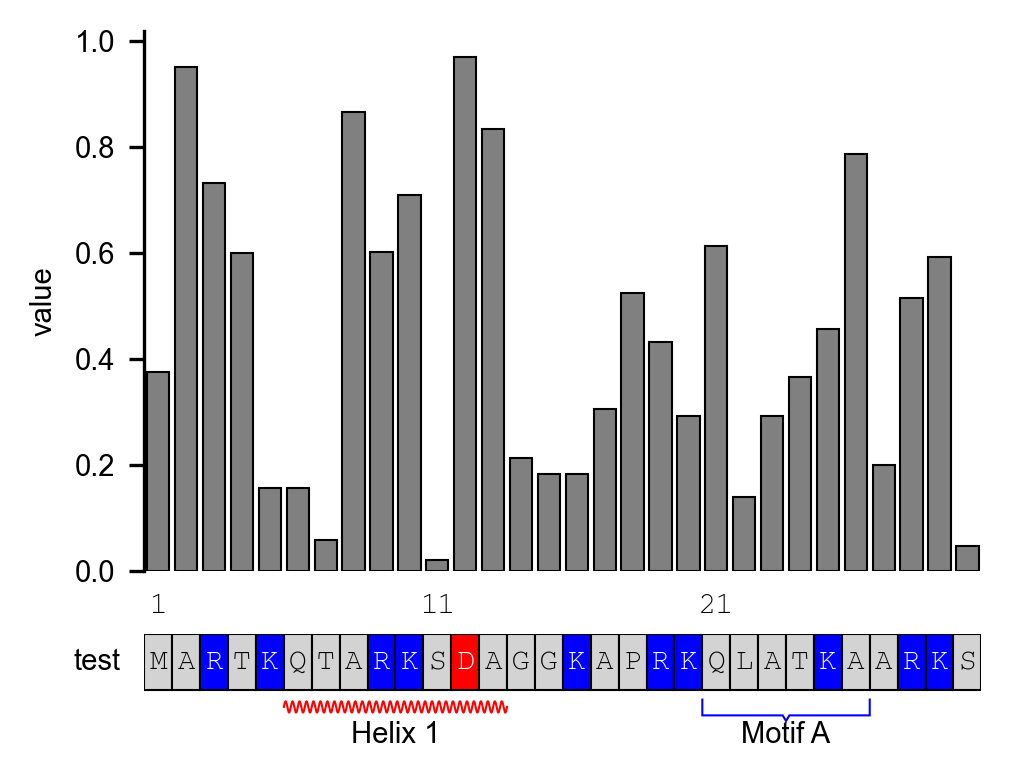
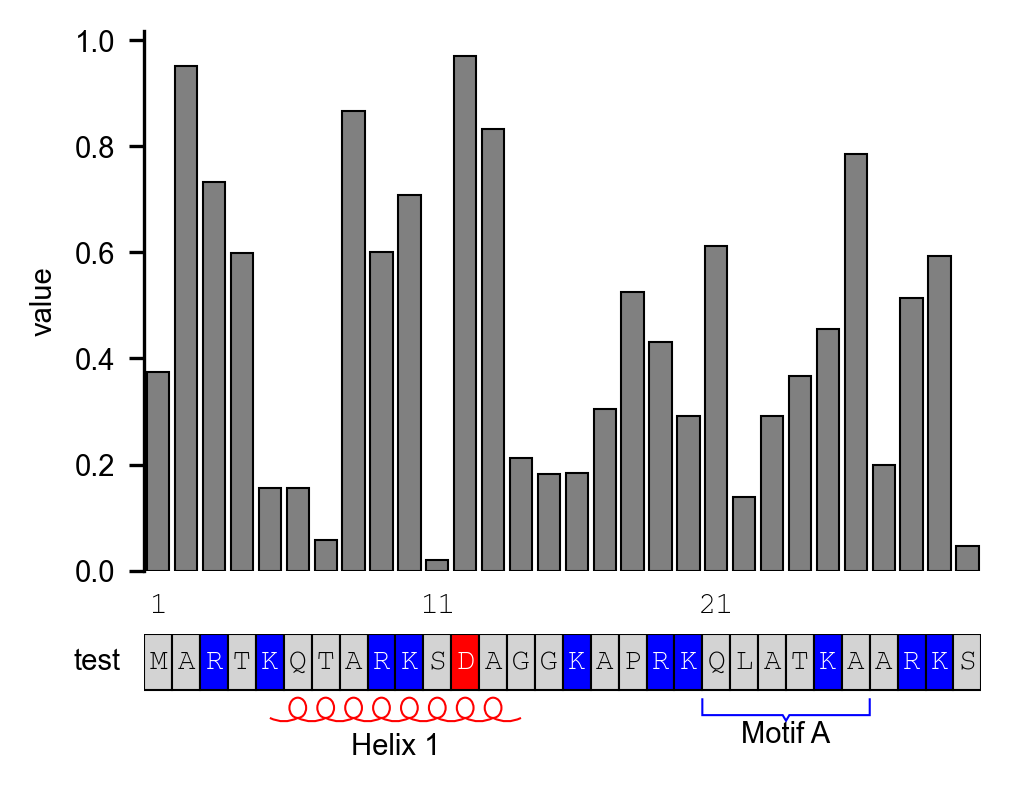
update

diff --git a/scripts/plot_structure.py b/scripts/plot_structure.py
@@ -182,16 +182,66 @@ def add_annotations(ax_seq, annotations, per_amino_acid_width):
             ax_seq.add_patch(patch)
 
         elif style == 'helix':
-            num_turns = width * 4 
-            x_values = np.linspace(start_pos, start_pos + width_scaled, int(width * 100))
-            y_offset = -0.3 - y_offset_more
-            amplitude = 0.1 
-            y_values = amplitude * np.sin(2 * np.pi * num_turns * (x_values - start_pos) / width_scaled) + y_offset
-            ax_seq.plot(x_values, y_values, color=style_color, linewidth=0.5)
+            n_res = max(int(width), 1)
+
+            x_start = start_pos
+            x_step = width_scaled / n_res
+            hx_step = x_step / 2.0
+
+            helix_height = per_amino_acid_width * 2.5
+            y_center = -0.5 - y_offset_more
+            y_curl   = y_center - helix_height * 0.4
+            ellipse_height = helix_height * 1.2
+            ellipse_width  = ellipse_height * 0.2
+            y_ellipse = y_center + ellipse_height / 2.0
+
+            Path = mpath.Path
+            lead_path = patches.PathPatch(
+                Path(
+                    [(x_start - hx_step, y_center),
+                    (x_start,           y_curl),
+                    (x_start + hx_step, y_center)],
+                    [Path.MOVETO, Path.CURVE3, Path.CURVE3]
+                ),
+                fc="none",
+                edgecolor=style_color,
+                linewidth=0.5,
+                zorder=3,
+            )
+            ax_seq.add_patch(lead_path)
+
+            for i in range(n_res):
+                x_pos = x_start + i * x_step
+                ell = patches.Ellipse(
+                    (x_pos + hx_step, y_ellipse),
+                    ellipse_width,
+                    ellipse_height,
+                    linewidth=0.5,
+                    edgecolor=style_color,
+                    facecolor="none",
+                    zorder=3,
+                )
+                ax_seq.add_patch(ell)
+                curve_path = patches.PathPatch(
+                    Path(
+                        [(x_pos + hx_step,          y_center),
+                        (x_pos + x_step,           y_curl),
+                        (x_pos + hx_step + x_step, y_center)],
+                        [Path.MOVETO, Path.CURVE3, Path.CURVE3]
+                    ),
+                    fc="none",
+                    edgecolor=style_color,
+                    linewidth=0.5,
+                    zorder=3,
+                )
+                ax_seq.add_patch(curve_path)
+            # Adjust for label
+            y_offset_more += 0.2
 
         # Add annotation text below
         ax_seq.text(start_pos + width_scaled / 2 + text_offset_scaled, -0.55 - y_offset_more, label,
                     ha='center', va='top')
+        
     max_y_offset = max(y_offset_more_lst) if y_offset_more_lst else 0
     return max_y_offset
 

diff --git a/scripts/get_4dsite.py b/scripts/get_4dsite.py
@@ -154,19 +154,21 @@ def main():
         if len(cds_sequence) % 3 != 0:
             continue
 
+        # Translate the CDS sequence to protein sequence
+        try:
+            protein_sequence = cds_sequence.translate(table=codon_table)
+        except Exception as e:
+            # If translation fails, skip this transcript
+            print(f"Error translating {transcript_id}: {e}")
+            continue
+
         # Save protein sequence if needed
         if args.output_pep:
-            try:
-                protein_sequence = cds_sequence.translate(table=codon_table)
-                transcript_id_pep_dict[transcript_id] = str(protein_sequence)
-                transcript_id_cds_dict[transcript_id] = cds_sequence
-            except Exception as e:
-                print(f"Error translating {transcript_id}: {e}")
-                continue
+            transcript_id_pep_dict[transcript_id] = str(protein_sequence)
+            transcript_id_cds_dict[transcript_id] = cds_sequence
 
         # Valid if translated sequence match with annotation
         if args.valid_pc is not None:
-            protein_sequence = cds_sequence.translate(table=codon_table)
             protein_sequence = protein_sequence.replace('*', '') # For Sec
             if transcript_id in pc_fasta:
                 ref_pc_seq = pc_fasta[transcript_id].seq
